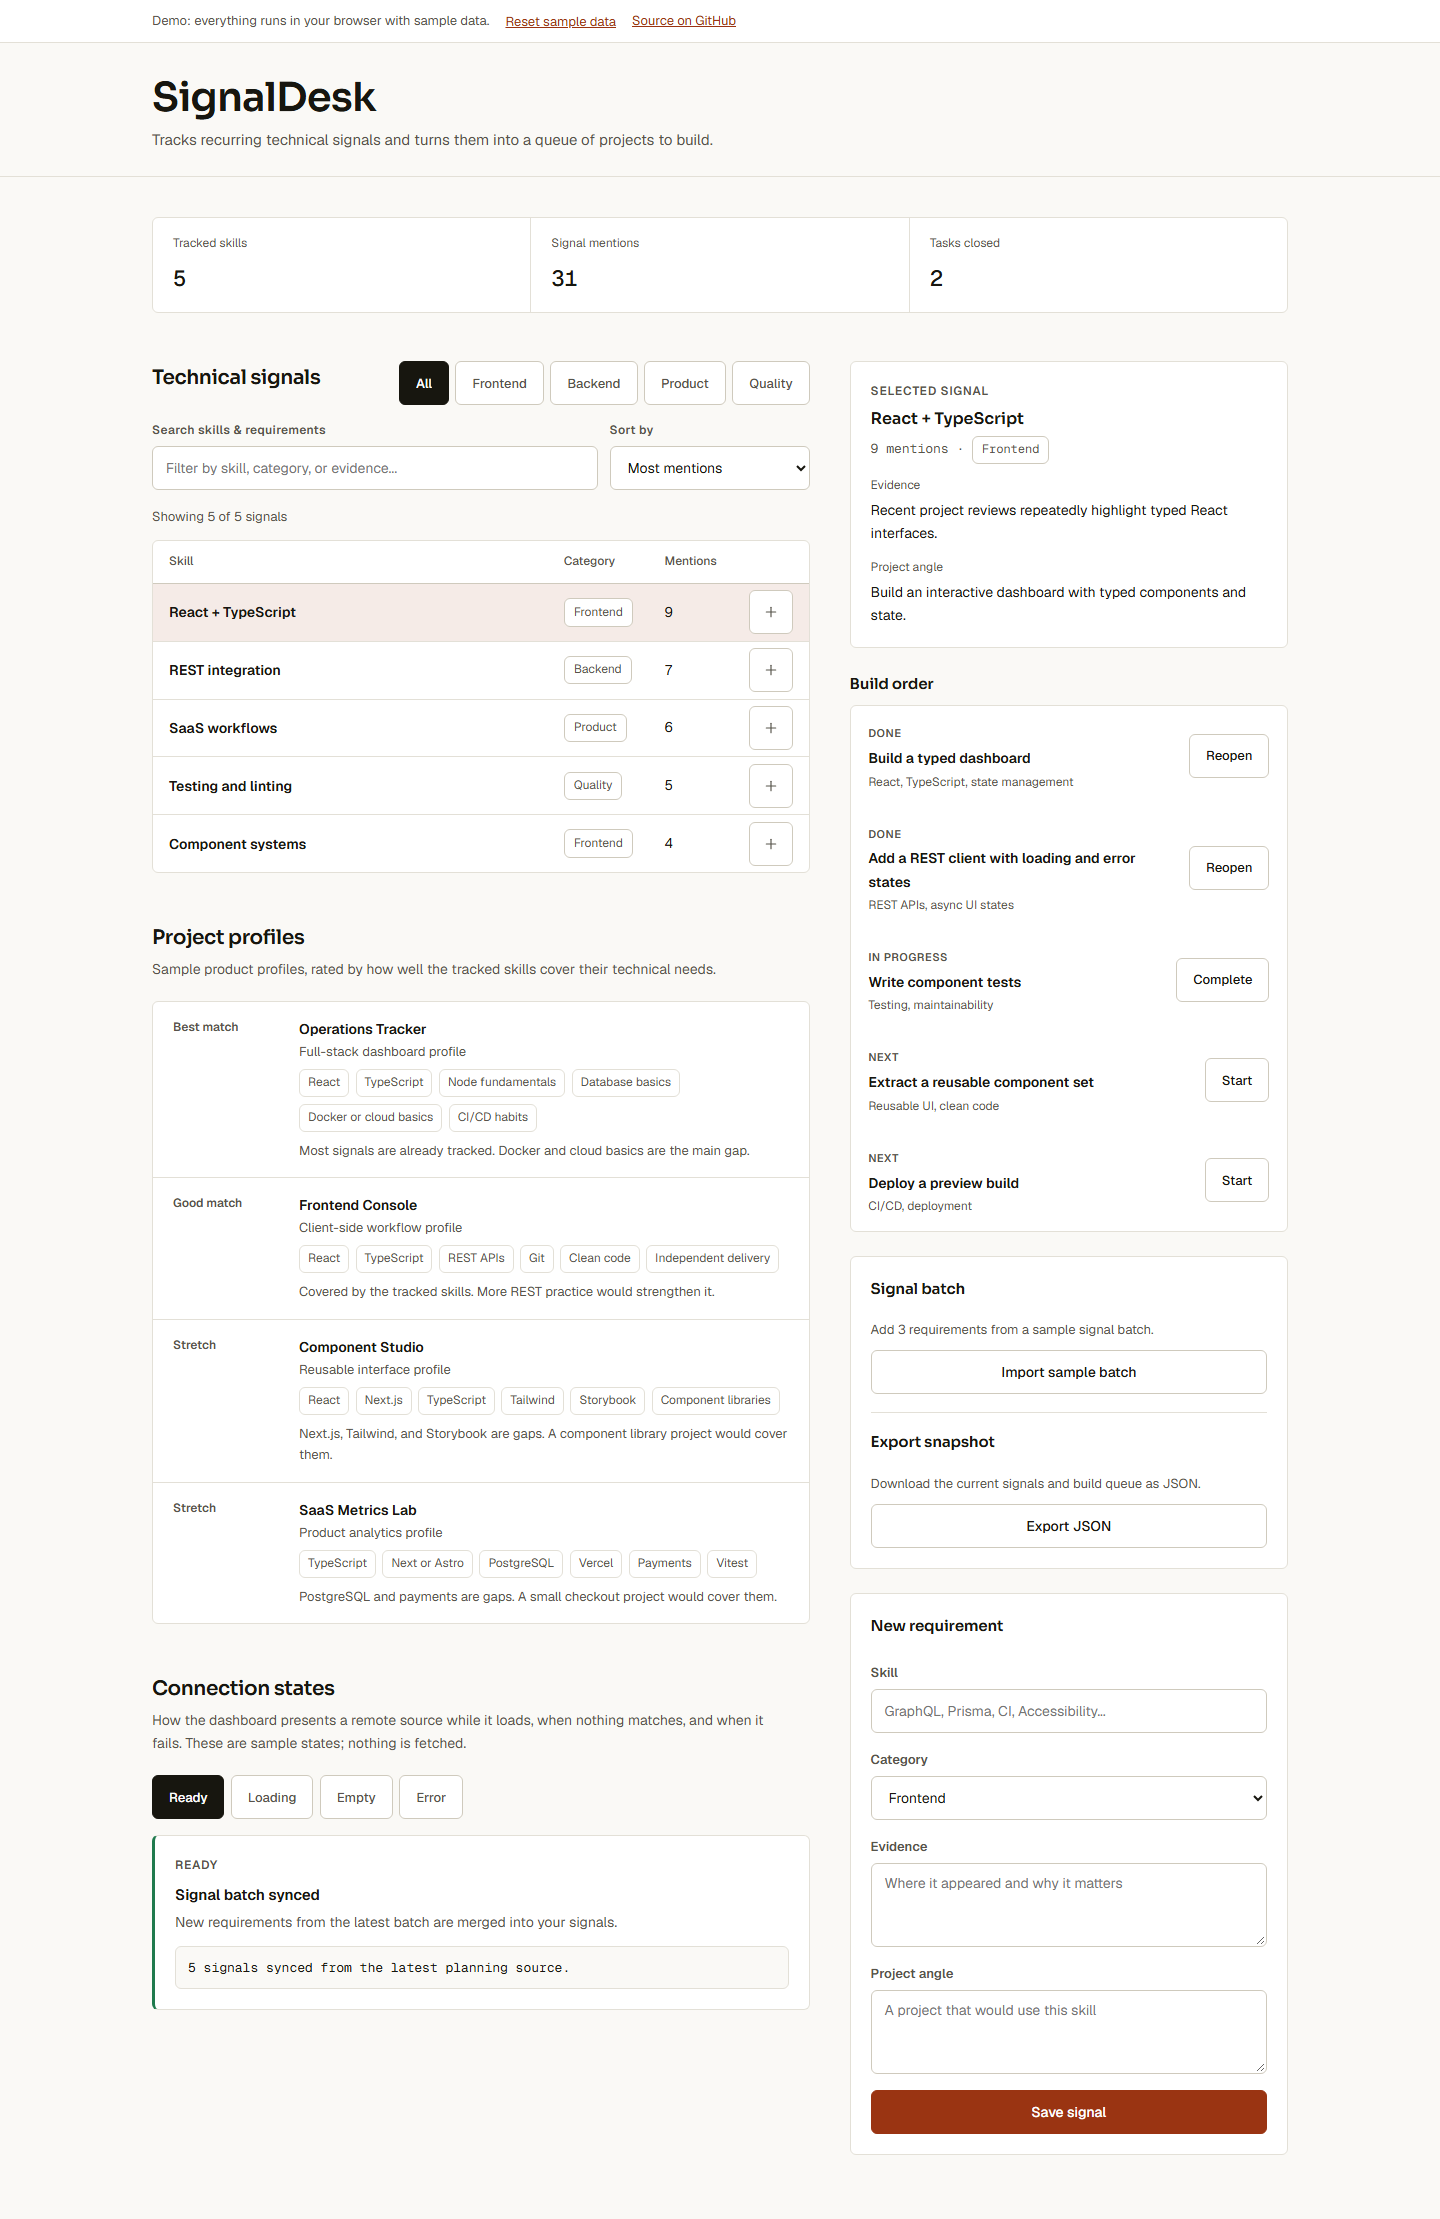
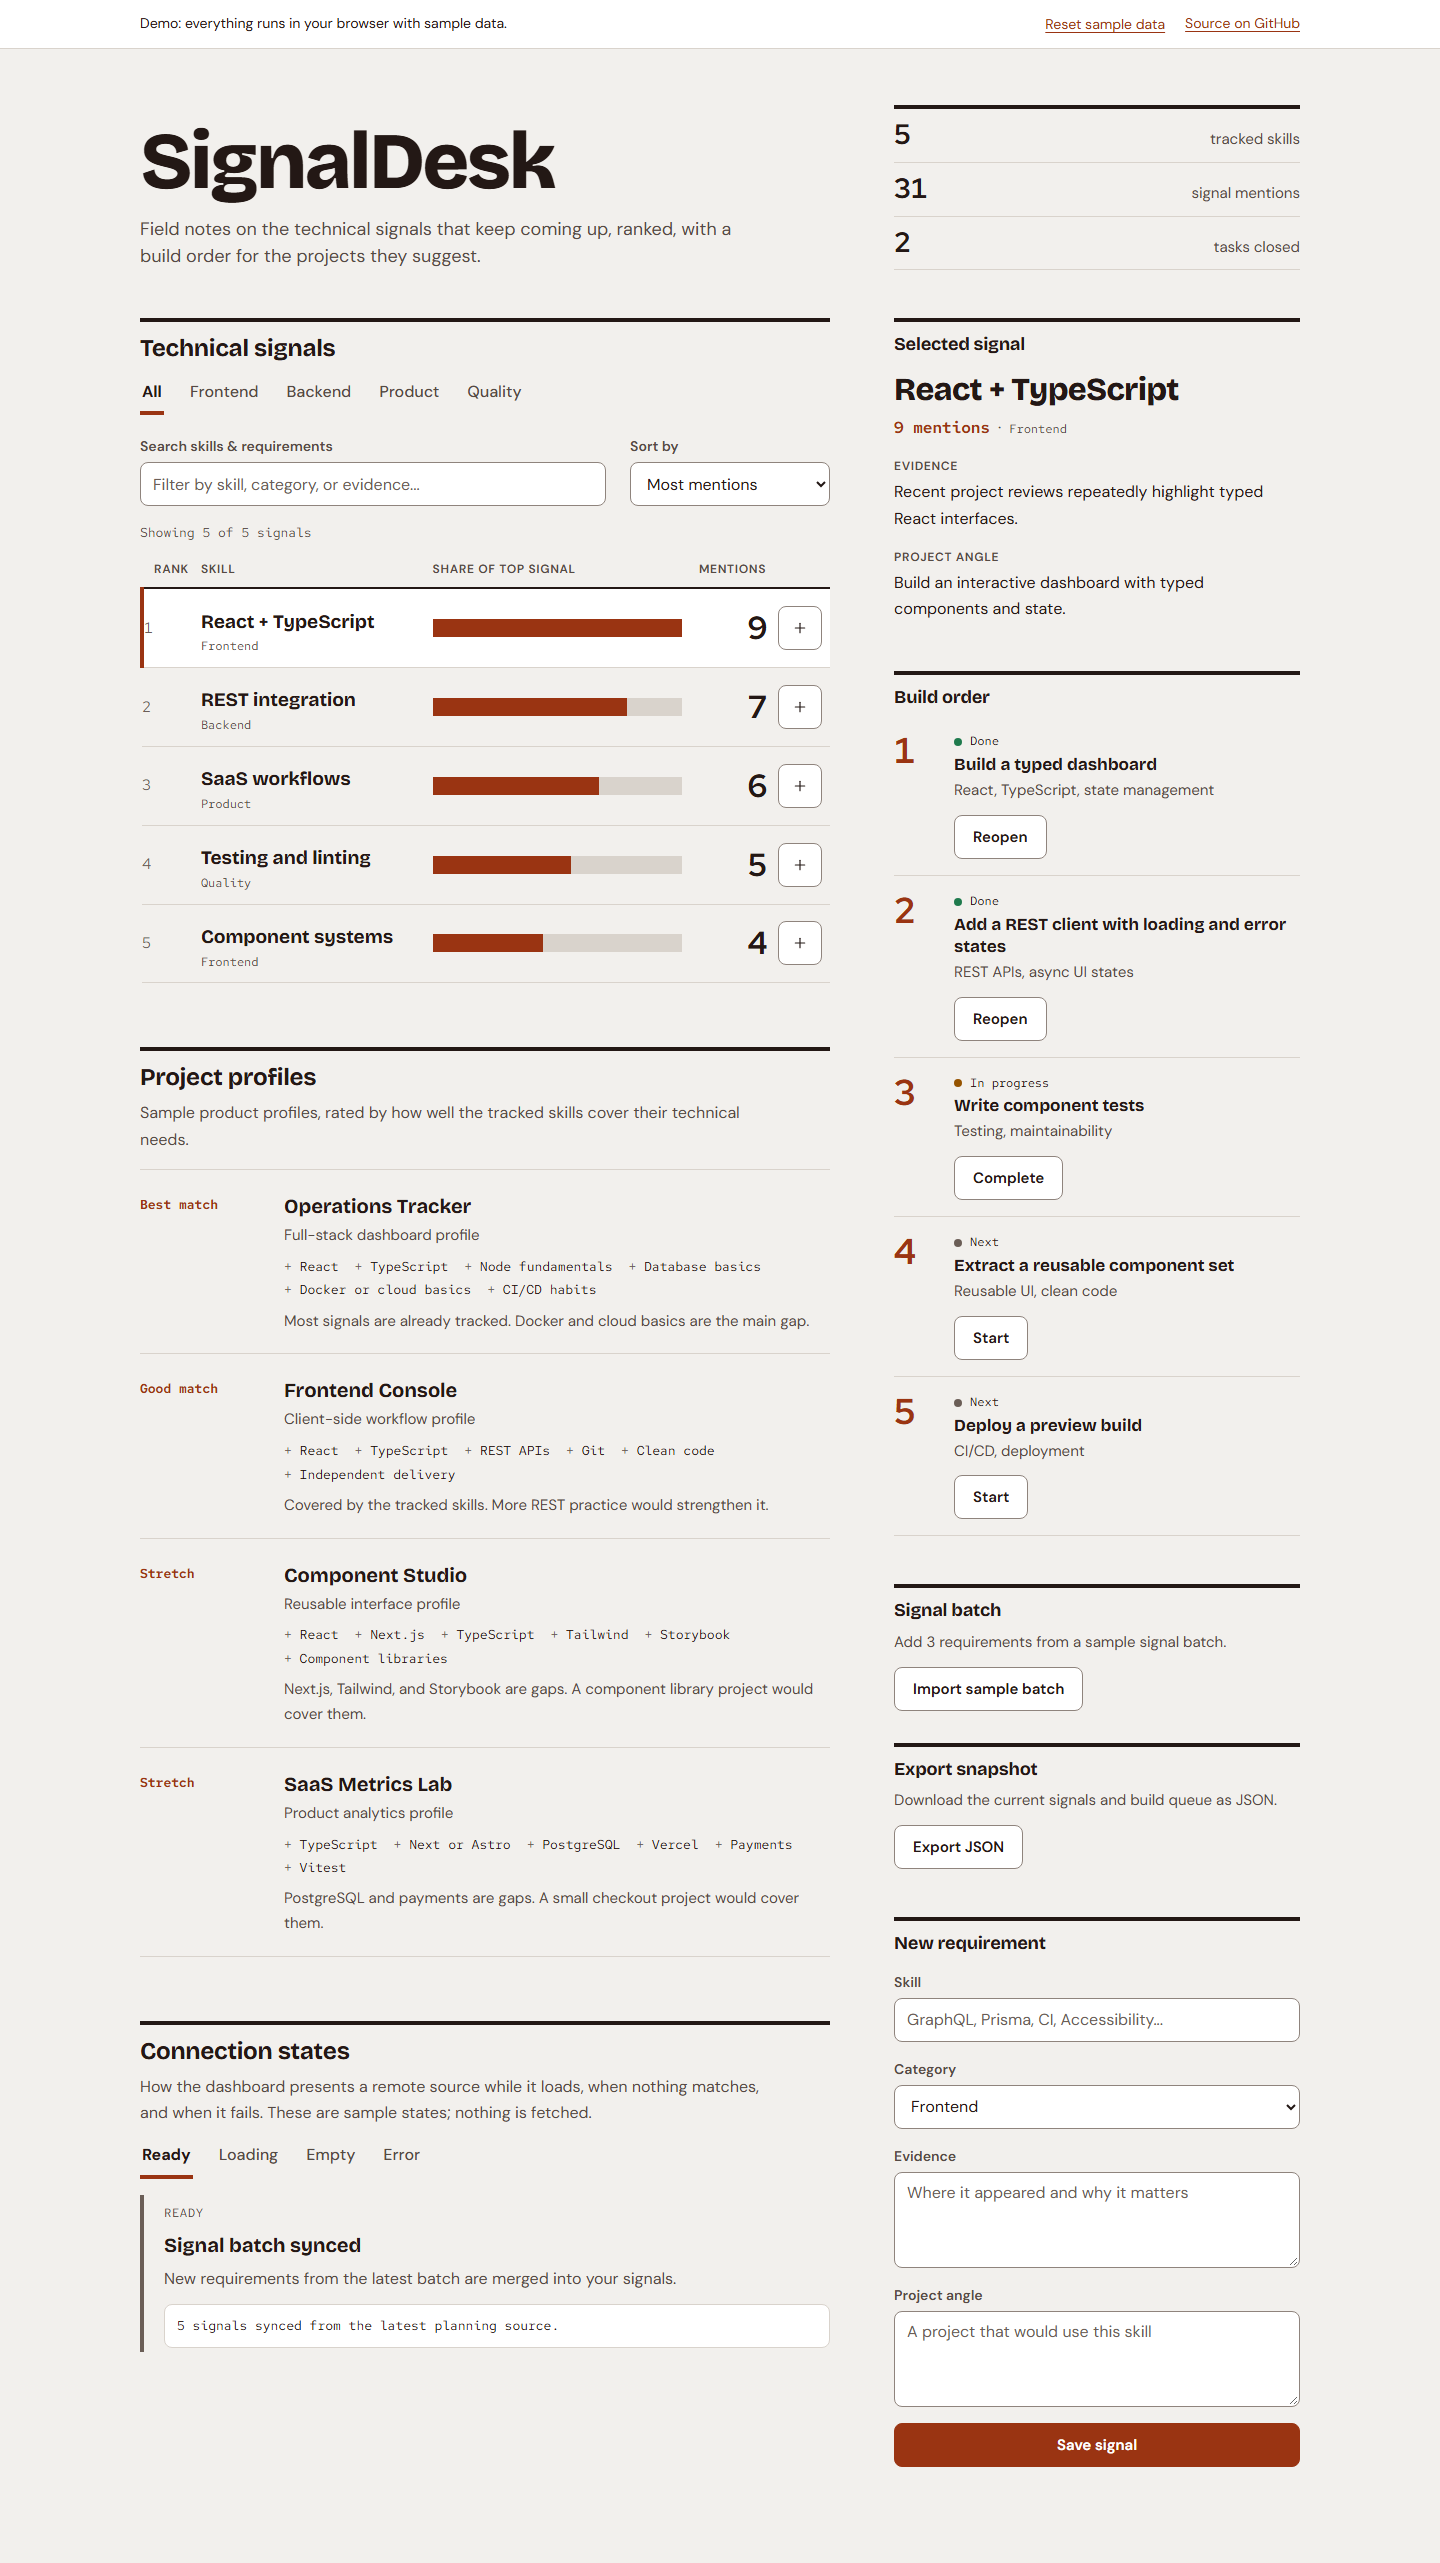
Update README, changelog and screenshots for the new look

diff --git a/README.md b/README.md
@@ -6,7 +6,7 @@
 
 SignalDesk is a technical signal planner. It tracks recurring skills and architecture themes, rates how well those themes support reference product profiles, and turns the gaps into a queue of projects to build. Everything runs in the browser and is saved to `localStorage`.
 
-The interface is a dense signal table with the strongest signal first, a compact segmented control for filtering and connection-state switching, and a side column with the selected signal's detail and the build queue.
+The interface reads like a page of field notes. A large ranked leaderboard sits on the left: each signal is a row with a wide inline bar and its mention count in big numerals, and categories are filtered with underline tabs. The right column holds the selected signal and the numbered build order. Headings are set in Bricolage Grotesque, text in DM Sans and figures in Red Hat Mono, on a warm paper background with a single rust accent.
 
 **Live demo:** [taan1el.github.io/jobpulse](https://taan1el.github.io/jobpulse/). The demo runs entirely in your browser: there is no backend, and your data stays on your device.
 
@@ -16,10 +16,10 @@ A short walkthrough of each part of the app is in [docs/demo.md](docs/demo.md).
 
 ## Features
 
-- **Requirement signals**: a dense table, filter by category, search skills and evidence, sort by mentions or name, and add a mention when a skill shows up again.
+- **Requirement signals**: a ranked leaderboard with inline bars, filter by category, search skills and evidence, sort by mentions or name, and add a mention when a skill shows up again.
 - **Selected signal detail**: click a skill to see its full evidence and project angle in the side column.
 - **Reference profiles**: sample product profiles with their technical needs, a fit rating, and a note on what is missing.
-- **Build queue**: tasks move from Next to In progress to Done and can be reopened. The stats strip counts closed tasks.
+- **Build queue**: tasks move from Next to In progress to Done and can be reopened. The summary beside the title counts closed tasks.
 - **Sample batch import**: merges three sample requirements once. Skills that are already tracked get one more mention and keep the text you wrote.
 - **Add signal form**: inline validation for empty fields and for skills that are already tracked.
 - **Connection states**: Ready, Loading, Empty, and Error views for a remote source. These are sample states; the app makes no network requests.

diff --git a/CHANGELOG.md b/CHANGELOG.md
@@ -8,12 +8,12 @@ The format is based on [Keep a Changelog](https://keepachangelog.com/en/1.1.0/).
 
 ### Changed
 
-- Redesigned the interface around the shared product design tokens: Sora, Geist, and Geist Mono replace Inter, the header wordmark drops from a 108px hero to 40px, and every gradient and shadow except the focus ring is gone.
-- Rebuilt the technical signals list as a dense table with the strongest signal first, replacing the repeated card grids. Category filtering and connection-state switching are now compact 44px segmented controls.
-- Added a selected-signal detail panel and moved the build queue into a single side column, next to the signal table.
-- Turned the reference profiles into a dense list instead of a card grid, and combined the import and export panels into one data-actions panel.
-- Added a slim demo bar with the reset action and a link to the source, replacing the separate reset panel.
-- Raised every control to at least 44px tall and confirmed the layout holds to one column with no horizontal page scroll under 720px.
+- Gave the interface its own look, styled as field notes on warm paper with one rust accent. Headings use Bricolage Grotesque, text uses DM Sans, and figures use Red Hat Mono.
+- Replaced the table under a stats strip with a ranked leaderboard. Each signal is a row with a wide inline bar and its mention count in large numerals, and the strongest signal comes first.
+- Category filters and connection-state switching are now underline tabs with a thick accent underline.
+- Moved the selected signal and the numbered build order into the right column, with the sample batch, export and new signal form below them.
+- Replaced the stats strip with a short tally of skills, mentions and closed tasks beside the title, and turned the panels into open sections divided by rules.
+- Rows on narrow screens stack the bar under the skill name, and every control stays at least 44px tall.
 
 ## [1.0.0] - 2026-09-13
 
